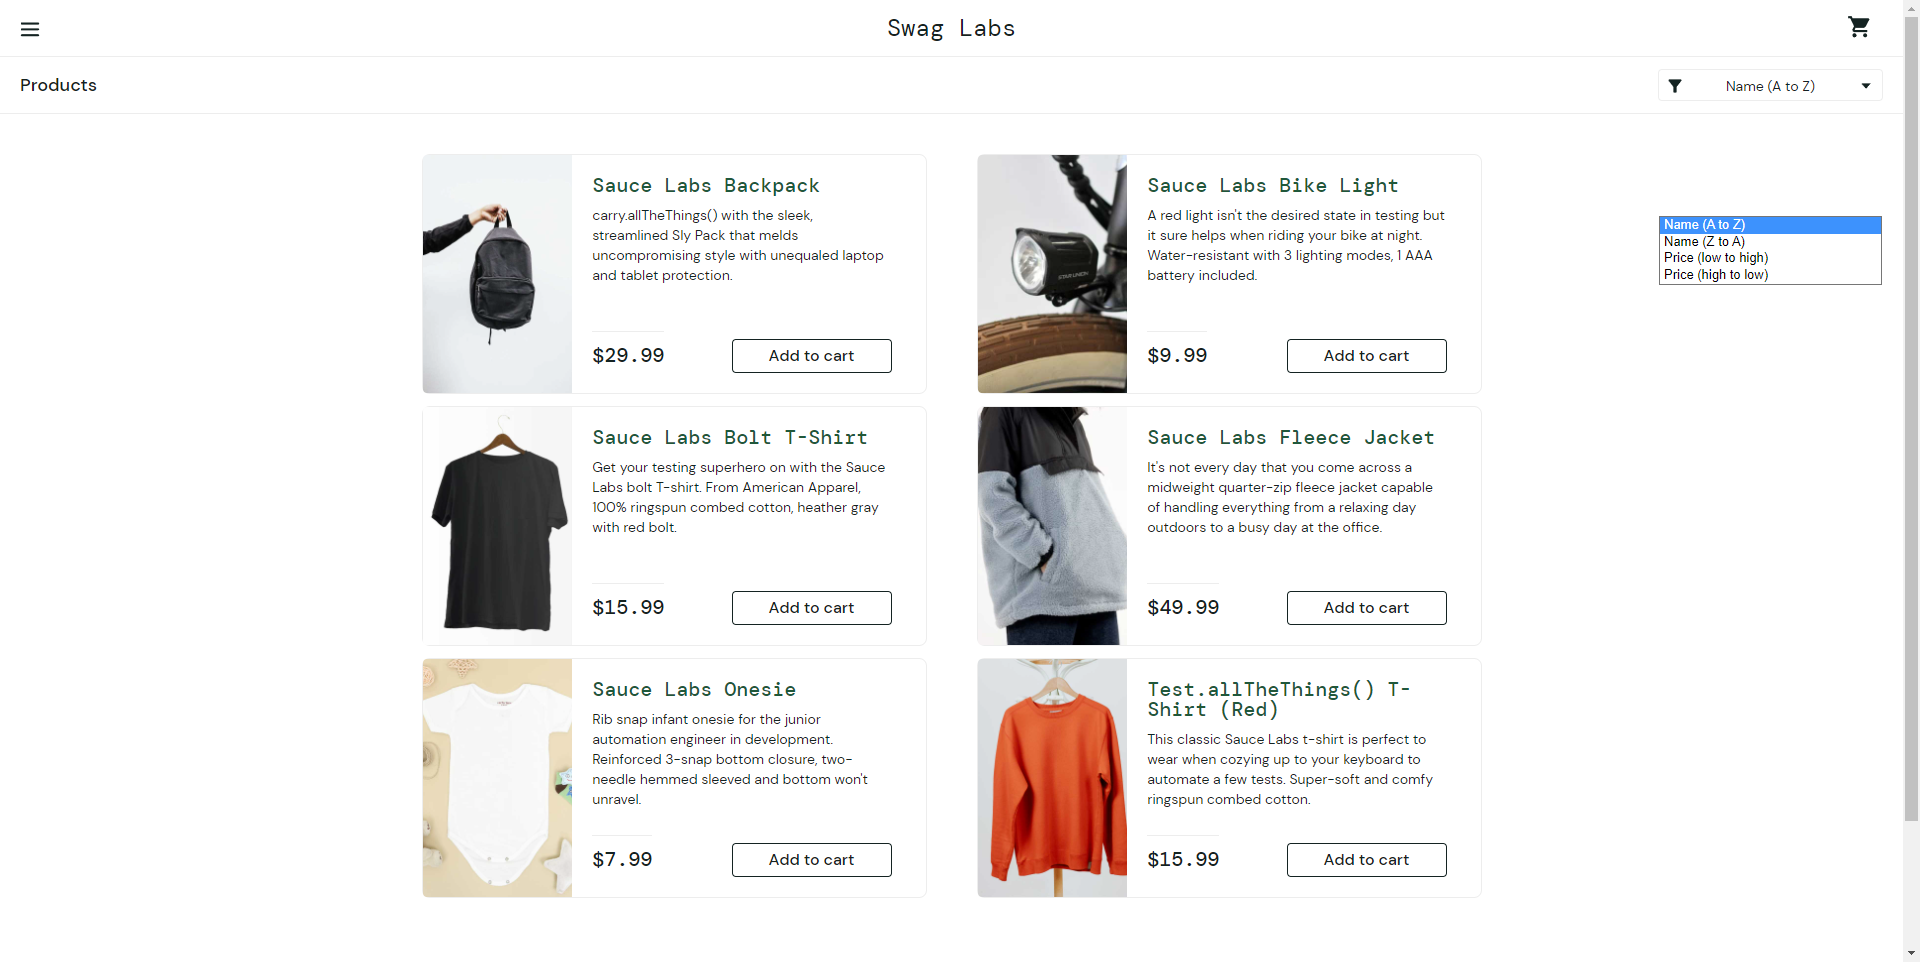
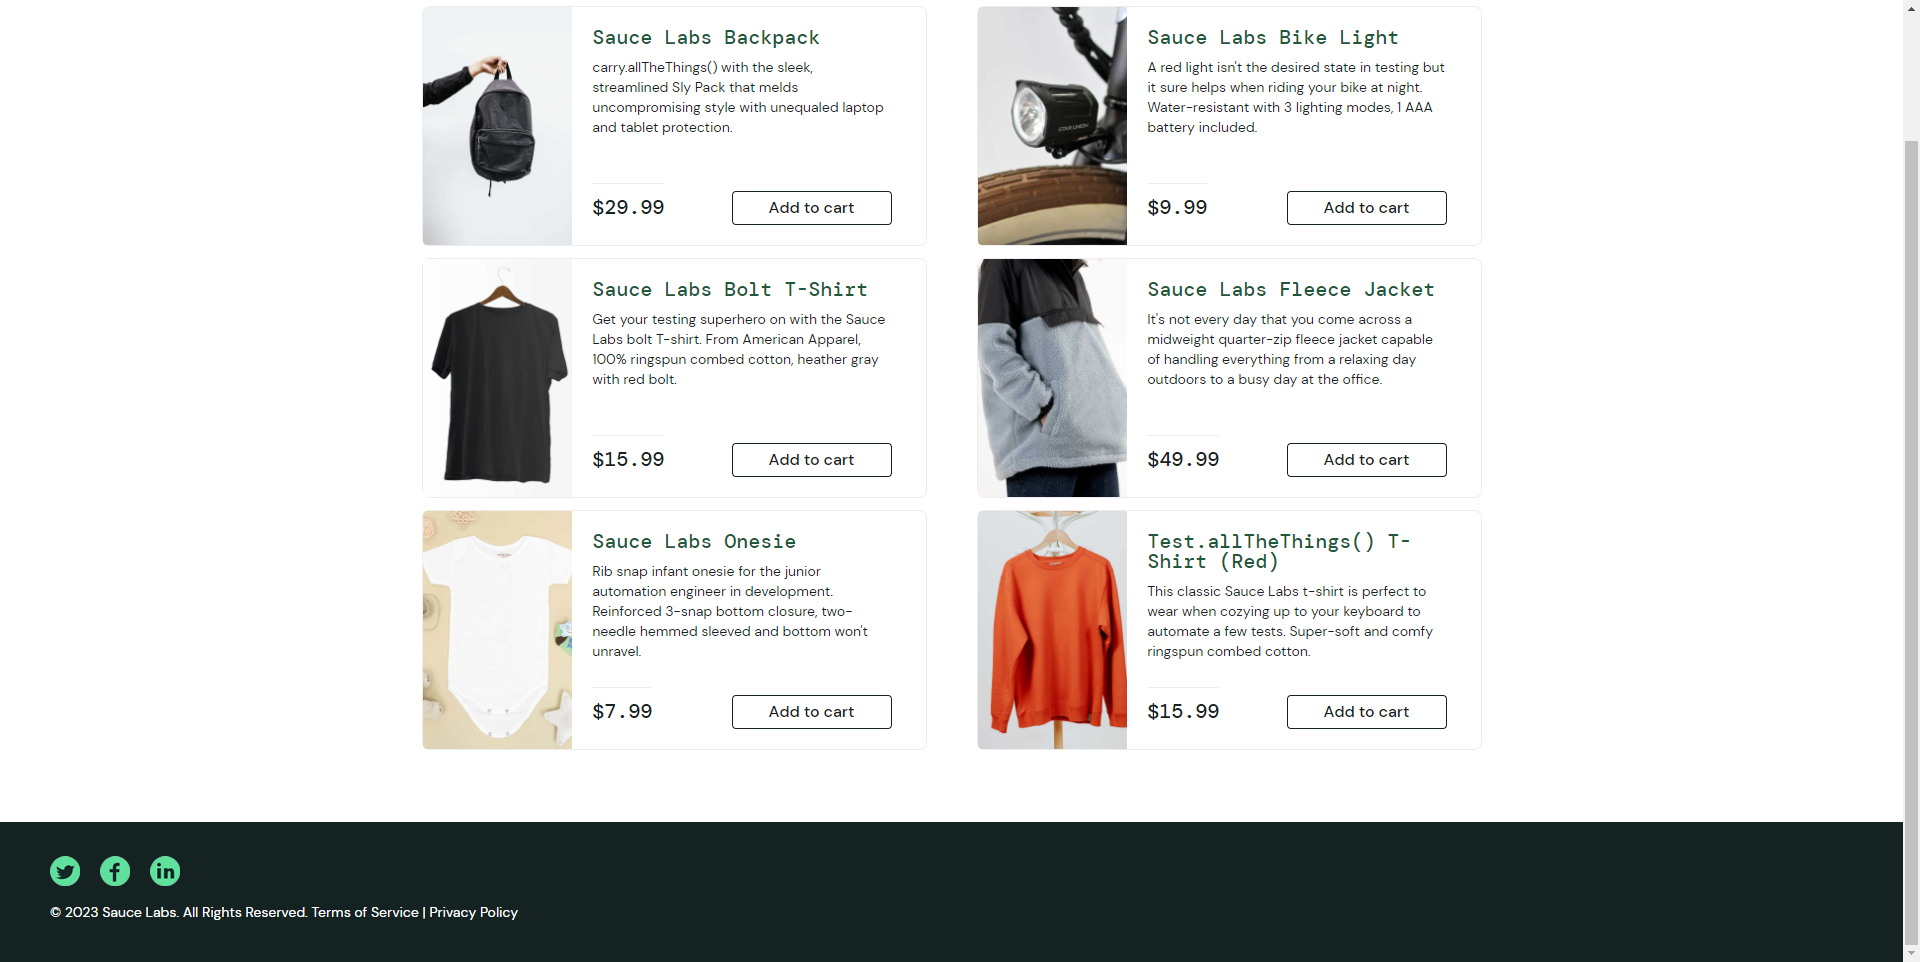
Scroll gerektiren sayfalarda sayfanın 500er piksel asagi kaydirilarak screenshot almasi ve bu tur bir cekim icin resimlerin yeniden isimlendirilmesi saglandi. Readme guncellendi.

diff --git a/AltinciGun/Odev2/test_sauce.py b/AltinciGun/Odev2/test_sauce.py
@@ -11,6 +11,8 @@ from pathlib import Path
 from datetime import date
 import pathlib
 import os
+from time import sleep
+from math import ceil
 
 """
 Senaryolar:
@@ -86,7 +88,7 @@ class Test_Sauce:
        userNameError = self.checkElementExistsByLocator(By.CSS_SELECTOR, userNameErrorCSSSelector)
        passwordError = self.checkElementExistsByLocator(By.CSS_SELECTOR, passwordErrorCSSSelector)
        errorMessageDiv = self.getElementByLocator(By.XPATH,errorMessageDivXpath)
-       self.takeAScreenShot("test_invalidLogin",f"usr={username}_psw={password}.png")
+       self.takeAScreenShot("test_invalidLogin",f"usr={username}_psw={password}")
        if (userNameError and passwordError) and errorMessageDiv.is_displayed():
            assert True
        else:
@@ -104,7 +106,7 @@ class Test_Sauce:
         self.passwordInput.send_keys(validPassword)
         self.loginButton.click()        
         checkUrl = self.driver.current_url        
-        self.takeAScreenShot("test_validLogin","test_validLogin.png")
+        self.takeAScreenShot("test_validLogin","test_validLogin")
         assert checkUrl == expectedUrl        
 
     def test_logOutFromBurgerMenu(self): 
@@ -121,7 +123,7 @@ class Test_Sauce:
         logOutLink = self.getElementByLocator(By.ID,logOutLinkId)
         logOutLink.click()
         currentUrl = self.driver.current_url
-        self.takeAScreenShot("test_logOutFromBurgerMenu","test_logOutFromBurgerMenu.png")
+        self.takeAScreenShot("test_logOutFromBurgerMenu","test_logOutFromBurgerMenu")
         assert currentUrl == expectedUrl
 
     def test_filterNameAToZ(self):
@@ -139,7 +141,7 @@ class Test_Sauce:
         filterAToZ.click()
         productNameDivs = self.getElementsByLocator(By.XPATH,productNameDivsXPath)
         productNameAToZ = self.getProductNameList(productNameDivs)   
-        self.takeAScreenShot("test_filterNameAToZ","test_filterNameAToZ.png")            
+        self.takeAScreenShot("test_filterNameAToZ","test_filterNameAToZ")            
         if sorted(productNameAToZ):
             flag = True
         else:
@@ -161,7 +163,7 @@ class Test_Sauce:
         filterZtoA.click()
         productNameDivs = self.getElementsByLocator(By.XPATH,productNameDivsXPath)
         productNameZToA = self.getProductNameList(productNameDivs)    
-        self.takeAScreenShot("test_filterNameZToA","test_filterNameZToA.png")          
+        self.takeAScreenShot("test_filterNameZToA","test_filterNameZToA")          
         if sorted(productNameZToA,reverse=True):
             flag = True
         else:
@@ -183,7 +185,7 @@ class Test_Sauce:
         filterPriceLowToHigh.click()
         productPricesDivs = self.getElementsByLocator(By.XPATH,productPricesDivsXPath)
         productPricesSortedToHigher = self.getProductPriceList(productPricesDivs)     
-        self.takeAScreenShot("test_filterPriceLowToHigh","test_filterPriceLowToHigh.png")           
+        self.takeAScreenShot("test_filterPriceLowToHigh","test_filterPriceLowToHigh")           
         if sorted(productPricesSortedToHigher):
             flag = True
         else:
@@ -205,7 +207,7 @@ class Test_Sauce:
         filterPriceHighToLow.click()
         productPricesDivs = self.getElementsByLocator(By.XPATH,productPricesDivsXpath)
         productPricesSortedToLower = self.getProductPriceList(productPricesDivs)       
-        self.takeAScreenShot("test_filterPriceHighToLow","test_filterPriceHighToLow.png")       
+        self.takeAScreenShot("test_filterPriceHighToLow","test_filterPriceHighToLow")       
         if sorted(productPricesSortedToLower,reverse=True):
             flag = True
         else:
@@ -223,7 +225,7 @@ class Test_Sauce:
         productImage = self.getElementByLocator(By.ID,f"item_{selectRandomProduct}_img_link")
         productImage.click()
         currentLocation = self.driver.current_url
-        self.takeAScreenShot("test_imageGoesToProductDetail","test_imageGoesToProductDetail.png")
+        self.takeAScreenShot("test_imageGoesToProductDetail","test_imageGoesToProductDetail")
         assert currentLocation == expectedUrl
     
     def test_titleGoesToProductDetail(self):
@@ -236,7 +238,7 @@ class Test_Sauce:
         productTitleLink = self.getElementByLocator(By.ID,f"item_{selectRandomProduct}_title_link")
         productTitleLink.click()
         currentLocation = self.driver.current_url
-        self.takeAScreenShot("test_titleGoesToProductDetail","test_titleGoesToProductDetail.png")
+        self.takeAScreenShot("test_titleGoesToProductDetail","test_titleGoesToProductDetail")
         assert currentLocation == expectedUrl
             
     def test_addToCartButton(self):
@@ -251,7 +253,7 @@ class Test_Sauce:
         cartIcon = self.getElementByLocator(By.CLASS_NAME,self.cartIconClassName)
         cartIcon.click()
         cartItemsList = self.getElementsByLocator(By.CLASS_NAME,cartItemsListClassName)
-        self.takeAScreenShot("test_addToCartButton","test_addToCartButton.png")
+        self.takeAScreenShot("test_addToCartButton","test_addToCartButton")
         assert buttonsToClick == len(cartItemsList)   
 
     def test_removeButton(self):
@@ -277,7 +279,7 @@ class Test_Sauce:
             cartItemsList = self.getElementsByLocator(By.CLASS_NAME,cartItemsListClassName)        
         if isCartItemsListExists == False or (isCartItemsListExists == True and len(cartItemsList) == (len(addButtonsToClick) - randomRemove)):
             flag = True 
-        self.takeAScreenShot("test_removeButton","test_removeButton.png")       
+        self.takeAScreenShot("test_removeButton","test_removeButton")       
         assert flag
     
     def getInvalidCheckoutData():
@@ -320,7 +322,7 @@ class Test_Sauce:
         lastNameErrorIcon = self.checkElementExistsByLocator(By.CSS_SELECTOR,lastNameErrorIconCSSSelector)
         postalCodeErrorIcon = self.checkElementExistsByLocator(By.CSS_SELECTOR,postalCodeErrorIconCSSSelector)
         errorDiv = self.getElementByLocator(By.XPATH,errorDivXPath).is_displayed()
-        self.takeAScreenShot("test_checkoutDataMustBeFull",f"first={firstName}_last={lastName}_postal={postalCode}.png")
+        self.takeAScreenShot("test_checkoutDataMustBeFull",f"first={firstName}_last={lastName}_postal={postalCode}")
         if firstNameErrorIcon and lastNameErrorIcon and postalCodeErrorIcon and errorDiv:
             assert True
         else:
@@ -369,7 +371,7 @@ class Test_Sauce:
             totalTaxTrue = True        
         if total == (f"Total: ${formattedTotalPrice}"):
             totalPriceTrue = True
-        self.takeAScreenShot("test_isTotalPriceCorrect",f"tax={formattedTax}_tprice={formattedTotalPrice}.png")
+        self.takeAScreenShot("test_isTotalPriceCorrect",f"tax={formattedTax}_tprice={formattedTotalPrice}")
         if totalTaxTrue and totalPriceTrue:            
             assert True
         else:
@@ -402,13 +404,12 @@ class Test_Sauce:
         finishButton = self.getElementByLocator(By.ID,finishButtonId)
         finishButton.click()
         currentAdress = self.driver.current_url
-        self.takeAScreenShot("test_completeShopping","test_completeShopping.png")
+        self.takeAScreenShot("test_completeShopping","test_completeShopping")
         if expectedAdress == currentAdress:
             assert True
         else:
             assert False
-
-
+            
         
     #Helpers
     def waitForElementVisible(self,locator,timeout=5):
@@ -466,8 +467,23 @@ class Test_Sauce:
         Path(f"{methodsPath}").mkdir(exist_ok=True)        
         return methodsPath
     
-    def takeAScreenShot(self,methodName,imageName):
+    def takeAScreenShot(self,methodName,imageName,extension = ".png"):
         methodsPath = self.createMethodsScreenshotFolder(methodName)
-        self.driver.save_screenshot(f"{methodsPath}/{imageName}")
+        self.scrollPageIfSiteBiggerThenWindowHeight(methodsPath,imageName,extension)
+        #self.driver.save_screenshot(f"{methodsPath}/{imageName}")
 
+    def scrollPageIfSiteBiggerThenWindowHeight(self,methodsPath,imageName,extension):
+        totalScrolledHeight = self.driver.execute_script("return window.pageYOffset + window.innerHeight")
+        pageHeight = self.driver.execute_script("return document.body.scrollHeight")
+        goDown = 0         
+        i = 0
+        while pageHeight > (totalScrolledHeight + goDown):
+            i += 1                                       
+            self.driver.execute_script(f"window.scrollTo(0,{goDown})")
+            self.driver.save_screenshot(f"{methodsPath}/{imageName}_{i}_{extension}")
+            goDown += 500                
+        else:
+            self.driver.execute_script("window.scrollTo(0, document.body.scrollHeight);")            
+            self.driver.save_screenshot(f"{methodsPath}/{imageName}{extension}")
+            
     

diff --git a/README.md b/README.md
@@ -111,7 +111,9 @@ Belirlediğim senaryolara göre testlerimi yazdım, gerekli helper metodlarımı
 ```
 paketlerini ve yöntemini kullandım. Buradaki path değişkeni projenin klasör hiyerarşisine göre düzenlenmelidir. Bu yöntem ile pytest in bakması gerektiği yol belirtilmiş oluyor. Farklı yöntemler de mutlaka ki mevcuttur ancak ben bu yöntemi tercih ettim. Detaylı kullanım için ilgili repositorydeki kodlarımı inceleyebilirsiniz.
 
-Testlerin hepsi için ekran görüntüsü alma işlevini ekledim. Daha kontrol edilebilir bir yapı için önce o testin çalıştırıldığı günün tarihini gg-aa-yyyy şeklinde formatlayıp bunu isim olarak kullanan bir klasör oluşturduktan sonra, bu klasörün içine her metod için ilgili metod ismini isim olarak kullanan ikinci bir klasörü oluşturan ve bu ikinci klasörün içine ilgili test için istenen resimleri kaydeden bir yapı oluşturdum ve ilgili metodlarda doğru noktalarda bu yapıyı çağırdım. 
+Testlerin hepsi için ekran görüntüsü alma işlevini ekledim. Daha kontrol edilebilir bir yapı için önce o testin çalıştırıldığı günün tarihini gg-aa-yyyy şeklinde formatlayıp bunu isim olarak kullanan bir klasör oluşturduktan sonra, bu klasörün içine her metod için ilgili metod ismini isim olarak kullanan ikinci bir klasörü oluşturan ve bu ikinci klasörün içine ilgili test için istenen resimleri kaydeden bir yapı oluşturdum ve ilgili metodlarda doğru noktalarda bu yapıyı çağırdım.
+
+Screenshot alırken bazı pencerelerin scroll ile kaydırılması gerektiğinden, bu işlem için yardımcı bir metod yazdım. Sayfanın scroll ederek görüntüleri alındığında resmin adına _1_ _2_ _3_ gibi ibarelerle eklenerek resmin yeniden adlandırılması sağlandı.
 
 Testlerin yazımı bittikten sonra magic string den kurtulabilmek adına over-design a kaçmamaya çalışarak gerekli refactoring işlemlerini yaptım. Ve test senaryolarını pytest aracılığı ile çalıştırdım:
 
